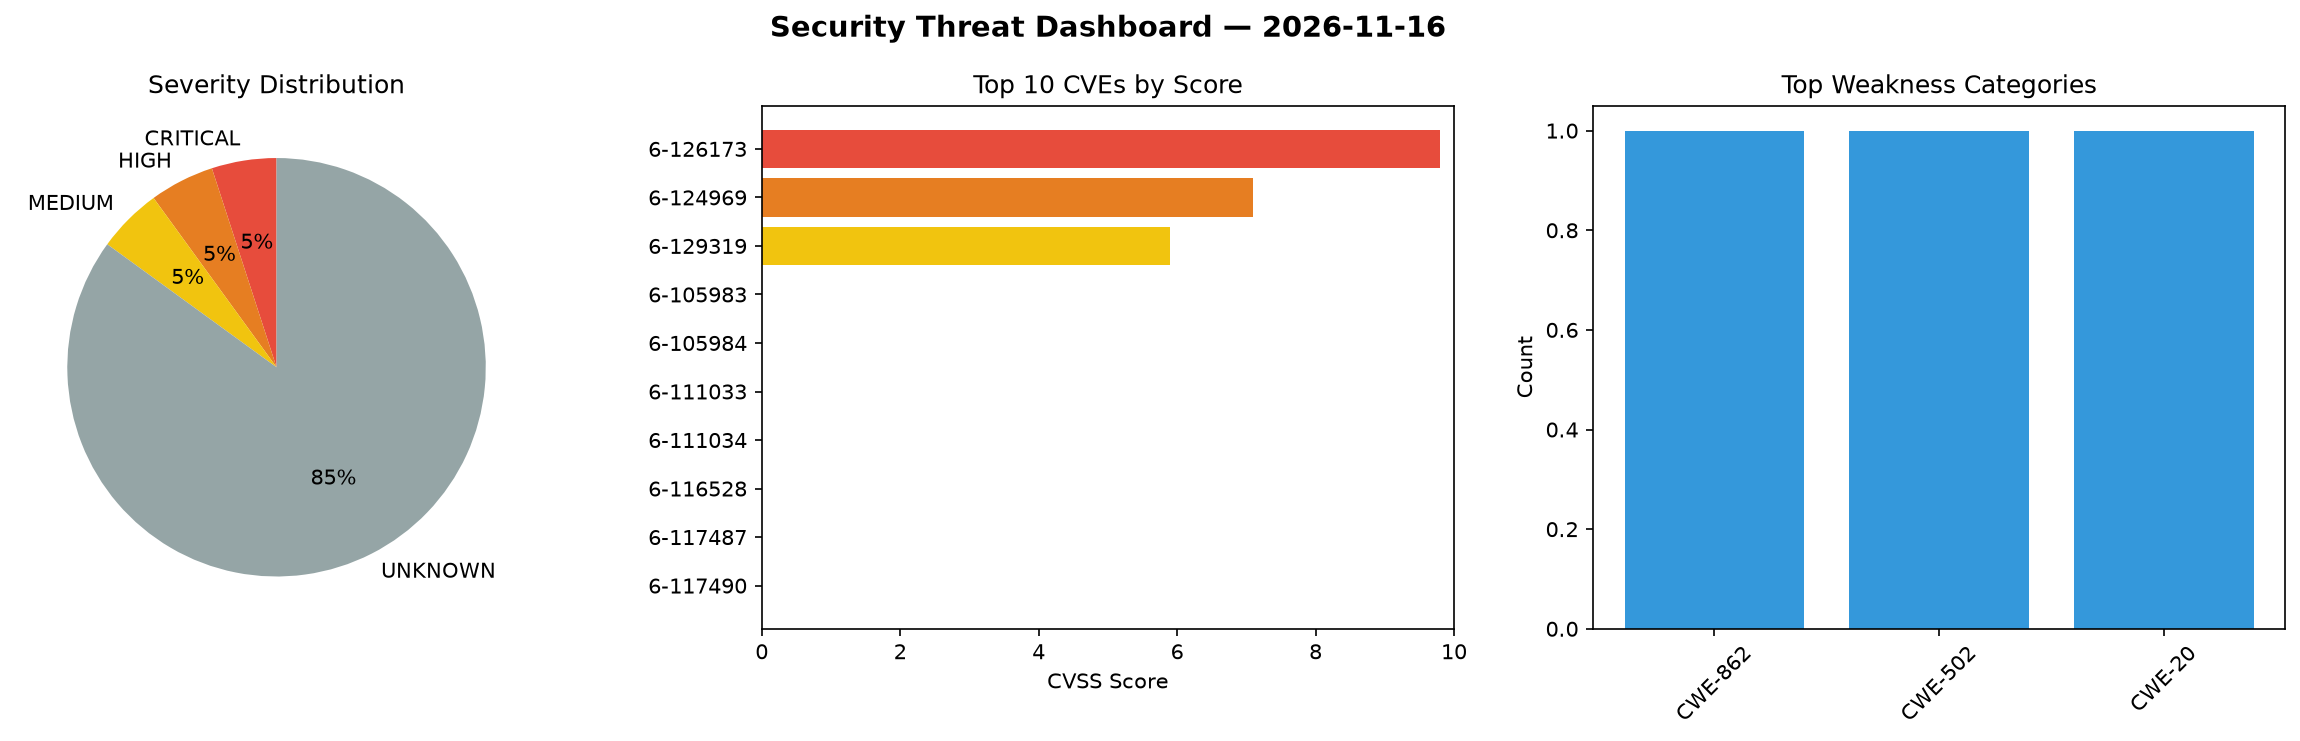
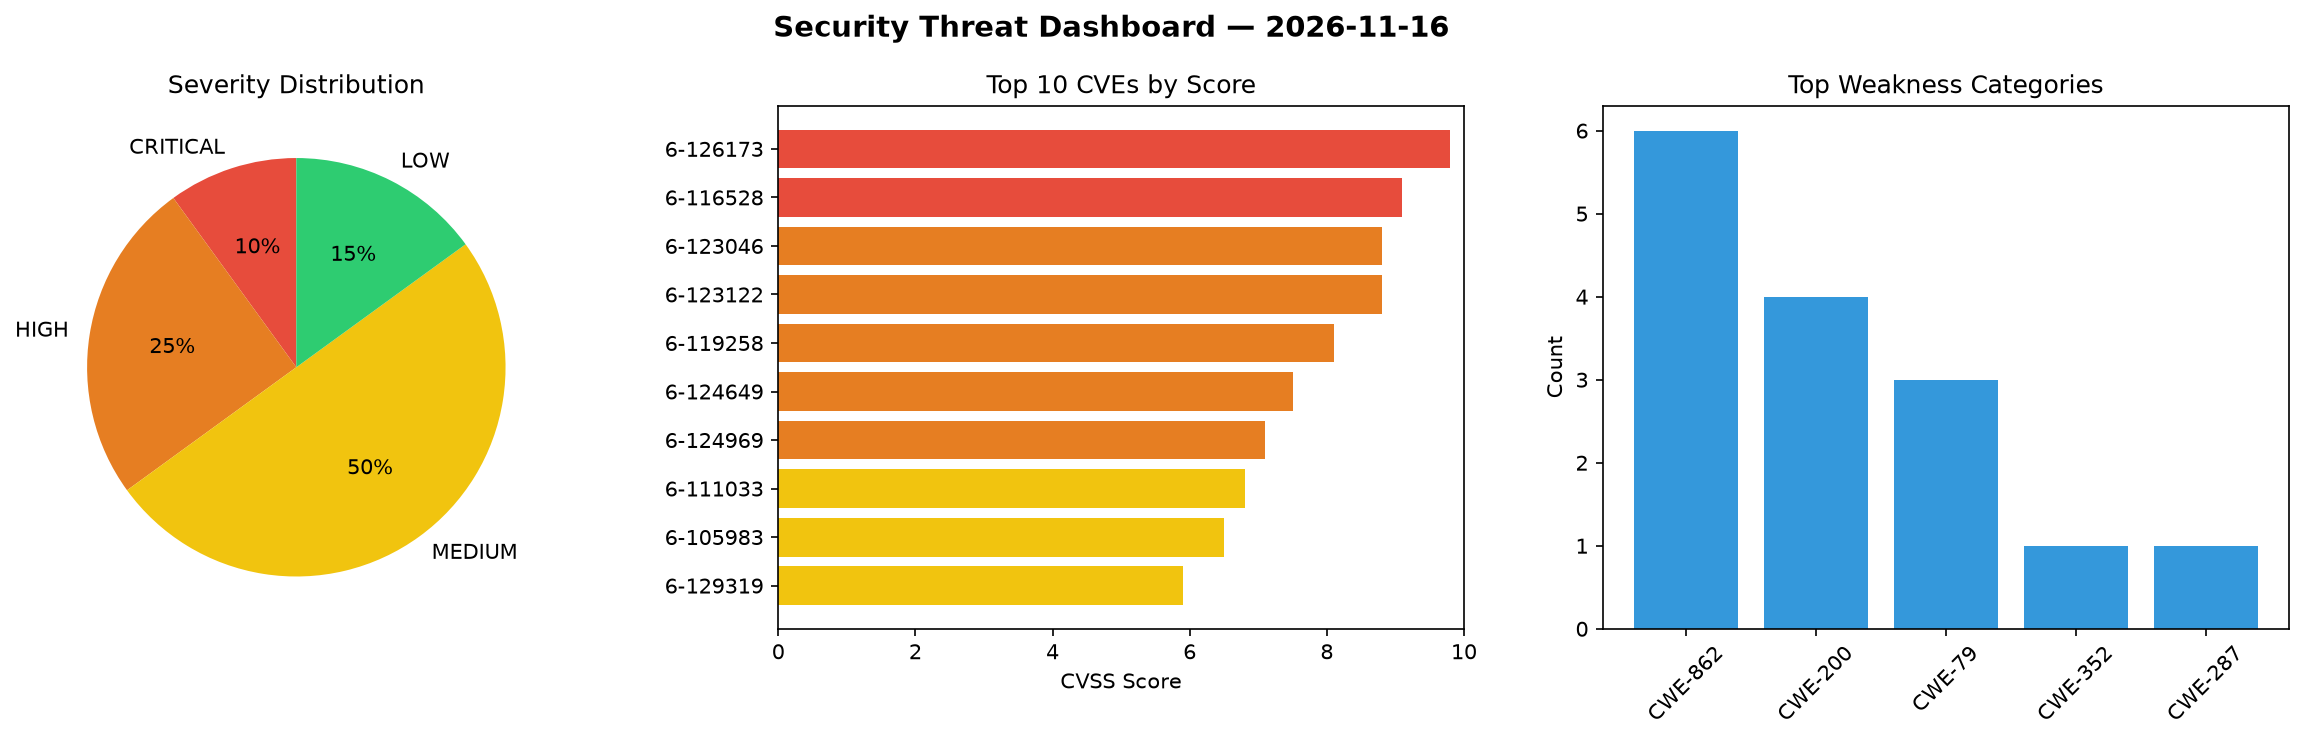
daily-experiments: security scan 2026-11-16T18:40

diff --git a/logs/2026-11-16.md b/logs/2026-11-16.md
@@ -1,6 +1,6 @@
 # Security Scan Report — 2026-11-16
 
-**Scan ID:** `9217325633` | **CVEs:** 20 | **Threat Index:** 72.3
+**Scan ID:** `194a8aa377` | **CVEs:** 20 | **Threat Index:** 312.4
 
 ![Dashboard](2026-11-16_dashboard.png)
 
@@ -10,45 +10,47 @@
 
 | Metric | Value |
 |--------|-------|
-| Threat Index | 72.3 |
-| Critical CVEs | 1 |
-| CRITICAL | 1 |
-| HIGH | 1 |
-| MEDIUM | 1 |
-| UNKNOWN | 17 |
+| Threat Index | 312.4 |
+| Critical CVEs | 2 |
+| CRITICAL | 2 |
+| HIGH | 5 |
+| MEDIUM | 10 |
+| LOW | 3 |
 
 ## Delta vs Yesterday
 
 | Metric | Today | Yesterday | Change |
 |--------|-------|-----------|--------|
 | total_cves | 20 | 20 | ➡ 0.0% |
-| threat_index | 72.3 | 160.5 | 📉 -55.0% |
-| critical_count | 1 | 0 | ➡ 0% |
+| threat_index | 312.4 | 160.5 | 📈 94.6% |
+| critical_count | 2 | 0 | ➡ 0% |
 
 ## Top Weakness Categories
 
 | CWE | Count |
 |-----|-------|
-| CWE-862 | 1 |
-| CWE-502 | 1 |
-| CWE-20 | 1 |
+| CWE-862 | 6 |
+| CWE-200 | 4 |
+| CWE-79 | 3 |
+| CWE-352 | 1 |
+| CWE-287 | 1 |
 
 ## CVE Details
 
 | CVE ID | Score | Severity | Description |
 |--------|-------|----------|-------------|
 | CVE-2026-126173 | 9.8 | CRITICAL | The AutomatorWP Pro plugin for WordPress' webhook addon is vulnerable to authori... |
+| CVE-2026-116528 | 9.1 | CRITICAL | The Chargely Free Subscriptions For Woocommernce WordPress plugin through 1.0 do... |
+| CVE-2026-123046 | 8.8 | HIGH | The SEOJuice WordPress plugin before 2.12.0 does not correctly restrict a REST A... |
+| CVE-2026-123122 | 8.8 | HIGH | The Checkout Files Upload for WooCommerce WordPress plugin before 2.4.1 does not... |
+| CVE-2026-119258 | 8.1 | HIGH | The Swipe WordPress plugin through 1.4 does not properly authenticate a login re... |
+| CVE-2026-124649 | 7.5 | HIGH | The Lightbox with PhotoSwipe WordPress plugin before 5.19.0 does not properly sa... |
 | CVE-2026-124969 | 7.1 | HIGH | The Optimole – Optimize Images / Convert WebP & AVIF / CDN & Lazy Load / Image O... |
+| CVE-2026-111033 | 6.8 | MEDIUM | The Countdown, Coming Soon, Maintenance  WordPress plugin through 3.0.8 does not... |
+| CVE-2026-105983 | 6.5 | MEDIUM | The Email Marketing 4Dem WordPress plugin through 2.0.5 does not perform authori... |
 | CVE-2026-129319 | 5.9 | MEDIUM | create-ecdh is a browserifiable implementation of Node.js crypto.createECDH. In ... |
-| CVE-2026-105983 | 0.0 | UNKNOWN | The Email Marketing 4Dem WordPress plugin through 2.0.5 does not perform authori... |
-| CVE-2026-105984 | 0.0 | UNKNOWN | The Email Marketing 4Dem WordPress plugin through 2.0.5 does not perform authori... |
-| CVE-2026-111033 | 0.0 | UNKNOWN | The Countdown, Coming Soon, Maintenance  WordPress plugin through 3.0.8 does not... |
-| CVE-2026-111034 | 0.0 | UNKNOWN | The Countdown, Coming Soon, Maintenance  WordPress plugin through 3.0.8 does not... |
-| CVE-2026-116528 | 0.0 | UNKNOWN | The Chargely Free Subscriptions For Woocommernce WordPress plugin through 1.0 do... |
-| CVE-2026-117487 | 0.0 | UNKNOWN | The Flatsome WordPress theme before 3.20.13 does not perform a capability or non... |
-| CVE-2026-117490 | 0.0 | UNKNOWN | The Flatsome WordPress theme before 3.20.13 does not enforce the acting user's p... |
-| CVE-2026-118181 | 0.0 | UNKNOWN | The Duplicate Post WordPress plugin before 1.5.8 does not perform a capability c... |
-| CVE-2026-118182 | 0.0 | UNKNOWN | The Duplicate Post WordPress plugin before 1.5.8 does not check that a user dupl... |
-| CVE-2026-118183 | 0.0 | UNKNOWN | The Duplicate Post WordPress plugin before 1.5.8 does not check whether a user m... |
-| CVE-2026-119258 | 0.0 | UNKNOWN | The Swipe WordPress plugin through 1.4 does not properly authenticate a login re... |
-| CVE-2026-123046 | 0.0 | UNKNOWN | The SEOJuice WordPress plugin before 2.12.0 does not correctly restrict a REST A... |
+| CVE-2026-126697 | 5.4 | MEDIUM | The Quick Page/Post Redirect Plugin WordPress plugin before 5.2.4 was distribute... |
+| CVE-2026-105984 | 5.3 | MEDIUM | The Email Marketing 4Dem WordPress plugin through 2.0.5 does not perform authori... |
+| CVE-2026-117487 | 5.3 | MEDIUM | The Flatsome WordPress theme before 3.20.13 does not perform a capability or non... |
+| CVE-2026-126640 | 4.9 | MEDIUM | The WP Ultimate CSV Importer  WordPress plugin before 9.3 does not escape values... |
+| CVE-2026-118182 | 4.4 | MEDIUM | The Duplicate Post WordPress plugin before 1.5.8 does not check that a user dupl... |
